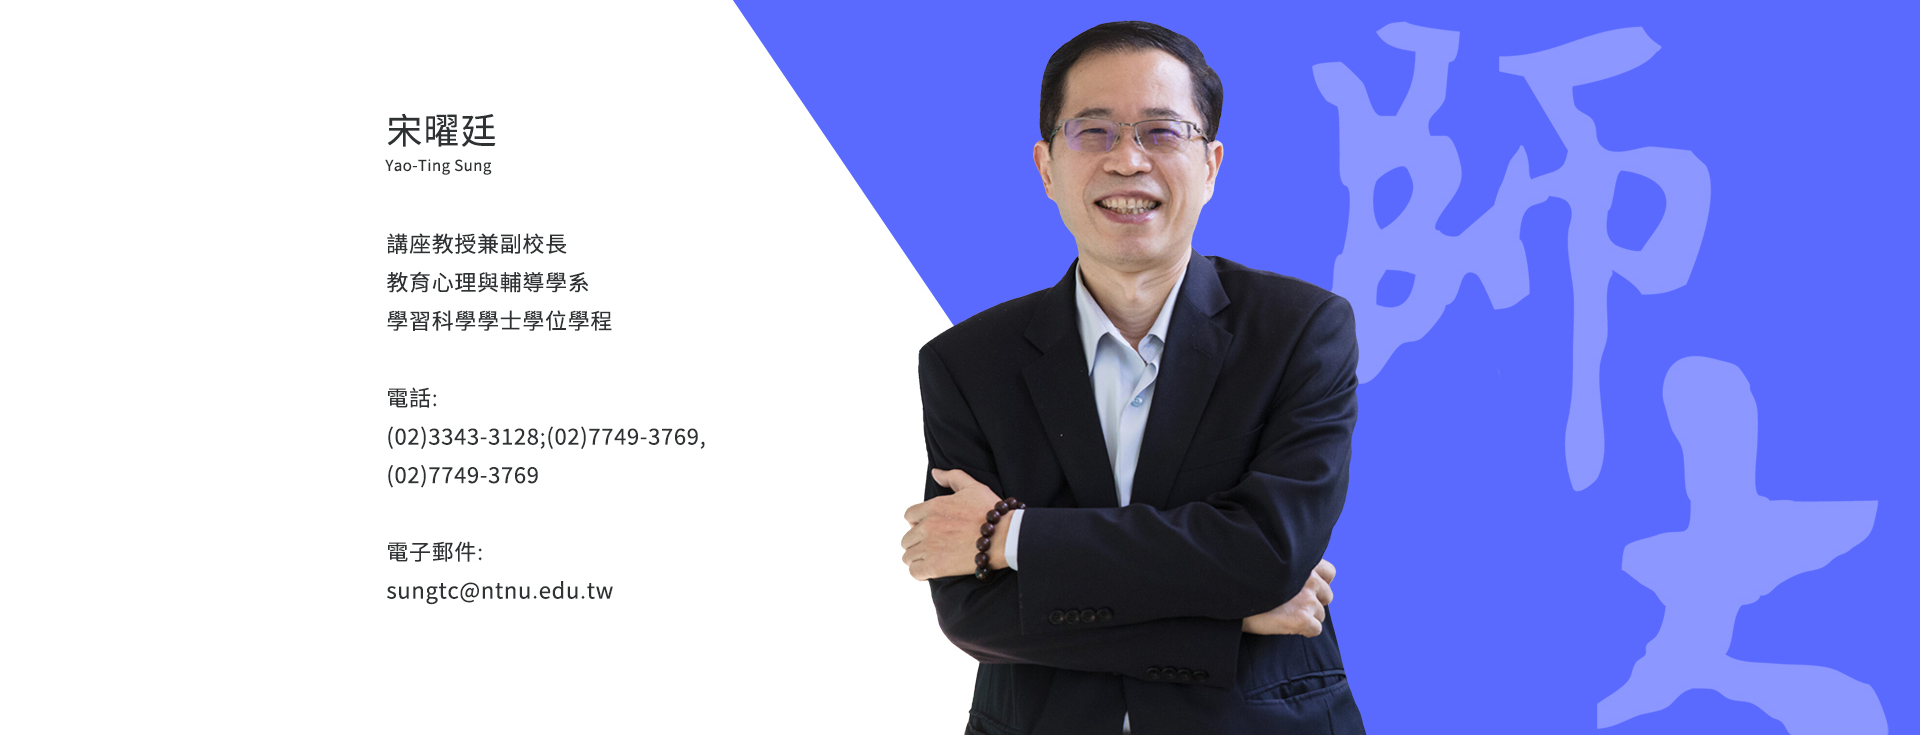
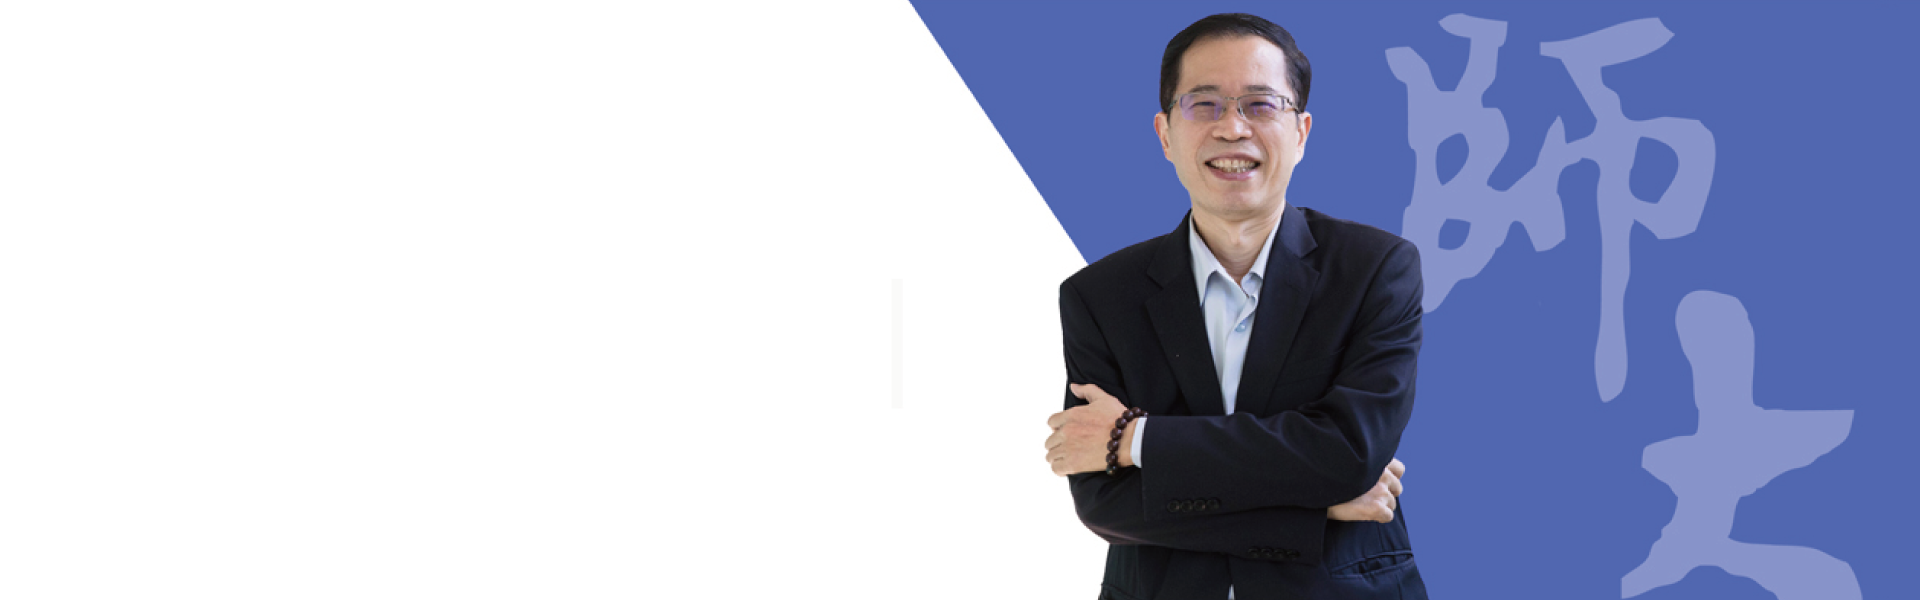
0217

diff --git a/Content/css/sung.css b/Content/css/sung.css
@@ -320,22 +320,17 @@ header .navbar {
 }
 
 header .navbar .container-fluid {
-  padding: 5px 5%;
+  padding: 8px 5%;
 }
 
 header .navbar .container-fluid .navbar-logo {
   display: flex;
   align-items: center;
-  max-width: 350px;
+  width: 45%;
 }
 
 header .navbar .container-fluid .navbar-logo img {
-  width: 50%;
-}
-
-header .navbar .container-fluid .navbar-logo p {
-  font-weight: bold;
-  color: #2f2f2f;
+  max-width: 280px;
 }
 
 header .navbar .container-fluid .navbar-brand {
@@ -596,9 +591,6 @@ header.fixed_header {
   header {
     padding: 0px;
   }
-  header .navbar .container-fluid .navbar-logo {
-    max-width: 400px;
-  }
   header .navbar .container-fluid .navbar-toggler {
     display: none;
   }
@@ -751,6 +743,14 @@ footer .footer_area .footer_information .footer_copyright_text {
 .slide .slide_title h1 {
   color: #fff;
   text-shadow: #2f2f2f 2px 2px 10px;
+}
+
+.slide .slide_title.slide_title_index {
+  width: 55%;
+  position: absolute;
+  left: 0;
+  top: 0;
+  padding: 0;
 }
 
 main {
@@ -1242,7 +1242,7 @@ main .about_area .about_area_item .about_area_content .about_area_content_item .
 }
 
 main .about_area .about_area_item .about_area_content .about_area_content_item .about_body .about_body_table table thead tr th:nth-child(1) {
-  width: 35%;
+  width: 30%;
 }
 
 main .about_area .about_area_item .about_area_content .about_area_content_item .about_body .about_body_table table thead tr th:nth-child(2) {
@@ -1250,11 +1250,11 @@ main .about_area .about_area_item .about_area_content .about_area_content_item .
 }
 
 main .about_area .about_area_item .about_area_content .about_area_content_item .about_body .about_body_table table thead tr th:nth-child(3) {
-  width: 25%;
+  width: 20%;
 }
 
 main .about_area .about_area_item .about_area_content .about_area_content_item .about_body .about_body_table table thead tr th:nth-child(4) {
-  width: 10%;
+  width: 20%;
 }
 
 main .about_area .about_area_item .about_area_content .about_area_content_item .about_body .about_body_table table tbody tr:nth-child(odd) {
@@ -1283,10 +1283,6 @@ main .about_area .about_area_item .about_area_content .about_area_content_item .
   padding: 10px;
   border: 1px solid #E5E5E5;
   text-align: center;
-}
-
-main .about_area .about_area_item .about_area_content .about_area_content_item .about_body .about_body_table table tr td:nth-child(4) {
-  text-align: left;
 }
 
 main .about_area .about_area_item .about_area_content .about_area_content_item .about_body .about_body_table::-webkit-scrollbar {

diff --git a/Content/scss/pages/_index.scss b/Content/scss/pages/_index.scss
@@ -77,16 +77,16 @@ main {
                                     tr{
                                         th{
                                             &:nth-child(1){
-                                                width: 35%;
+                                                width: 30%;
                                             }
                                             &:nth-child(2){
                                                 width: 30%;
                                             }
                                             &:nth-child(3){
-                                                width: 25%;
+                                                width: 20%;
                                             }
                                             &:nth-child(4){
-                                                width: 10%;
+                                                width: 20%;
                                             }
                                         }
                                     }
@@ -119,11 +119,6 @@ main {
                                             padding: 10px; 
                                             border: 1px solid $grey; 
                                             text-align: center; 
-                                            }
-                                            td{
-                                                &:nth-child(4){
-                                                    text-align: left;
-                                                }
                                             }
                                 }
                                 }

diff --git a/Content/scss/master/_header.scss b/Content/scss/master/_header.scss
@@ -13,19 +13,15 @@ header {
         padding: 0;
 
         .container-fluid {
-            padding: 5px 5%;
+            padding: 8px 5%;
 
             .navbar-logo{
                 display: flex;
                 align-items: center;
-                max-width: 350px;
-                img{
-                    width: 50%;
-                }
-                p{
-                    font-weight: bold;
-                    color: $black;
-                }
+                width: 45%;
+                    img{
+                        max-width: 280px;
+                    }
             }
 
             .navbar-brand{
@@ -307,7 +303,7 @@ header {
             .container-fluid {
 
                 .navbar-logo{
-                    max-width: 400px;
+                    
                 }
 
                 .navbar-toggler{

diff --git a/index.html b/index.html
@@ -37,8 +37,17 @@
 
   </header>
   <!-- ------- ------- ------- ------- ------- ------- ------- -->
-  <div class="slide">
+
+  <div class="slide slide_bg slide_index">
     <img src="Content/image/photo/index/slide.png" alt="">
+    <div class="slide_title slide_title_index">
+      <h3>
+        宋曜廷
+      </h3>
+      <p>臺灣師範大學 副校長</p>
+      <p>臺灣師範大學 師大講座教授</p>
+      <p>臺灣師範大學 高等教育深耕計畫辦公室執行長</p>
+    </div>
   </div>
   <main>
     <div class="about_area">

diff --git a/Content/scss/pages/_common.scss b/Content/scss/pages/_common.scss
@@ -1,5 +1,8 @@
 .slide{
     position: relative;
+    // &.slide_index{
+    //     background-image: url(../image/slide/slide_index.png);
+    // }
     &.slide_laboratory{
         background-image: url(../image/slide/slide_laboratory.png);
     }
@@ -15,6 +18,14 @@
         h1{
             color: $white;
             text-shadow: $black 2px 2px 10px;
+        }
+
+        &.slide_title_index{
+            width: 55%;
+            position: absolute;
+            left: 0;
+            top: 0;
+            padding: 0;
         }
     }
 }

diff --git a/header.html b/header.html
@@ -2,7 +2,6 @@
   <div class="container-fluid">
     <div class="navbar-logo">
       <img src="Content/image/logo/logo_ntnu.svg" alt="">
-      <p>｜教育心理與輔導學系</p>
     </div>
     <button class="navbar-toggler" type="button" data-bs-toggle="collapse" data-bs-target="#navbarNavDropdown"
       aria-controls="navbarNavDropdown" aria-expanded="false" aria-label="Toggle navigation">
